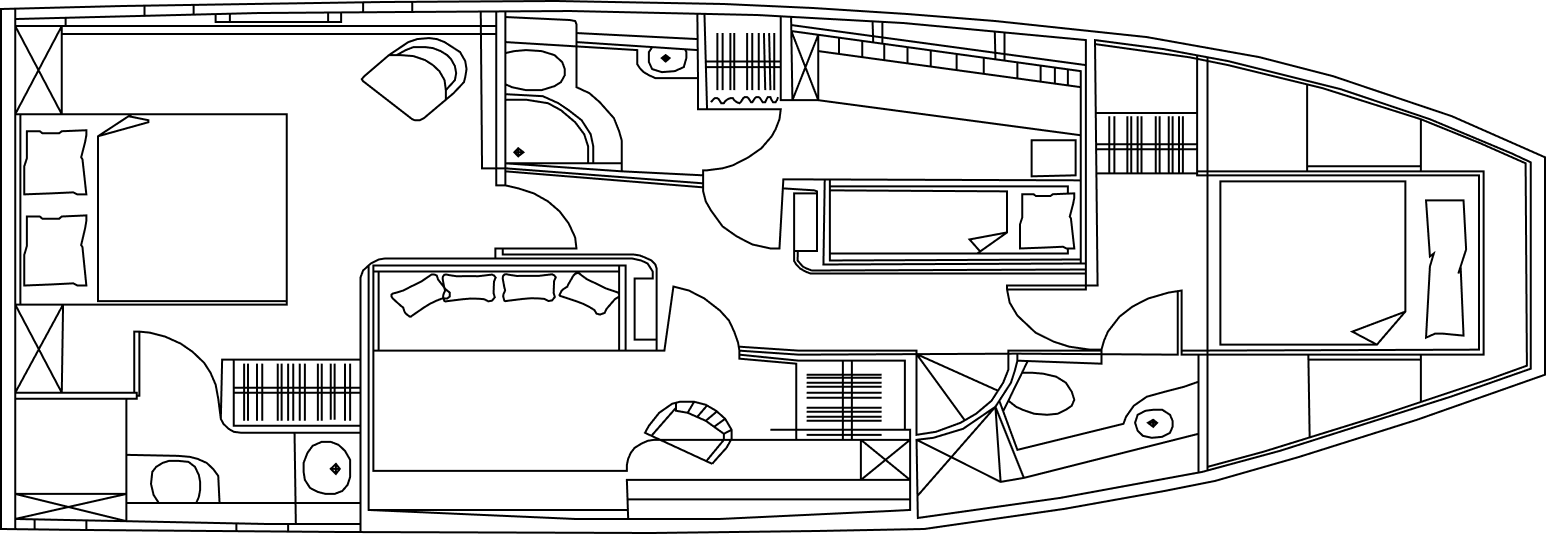
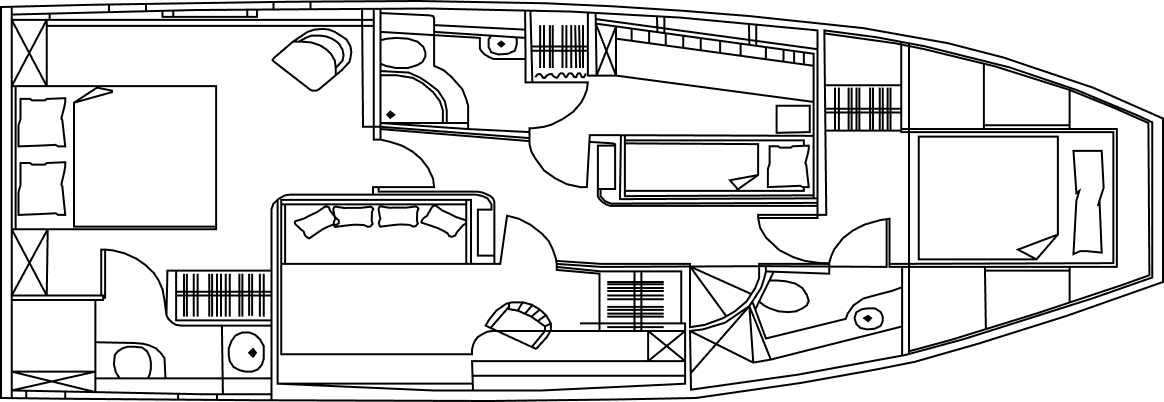
Александрия: new floor plans, "Планировки" row section, gallery page
- Replace all 3 floor plans with new resized drawings (side / main / lower),
  ordered side-first; cache-busted ?v=2
- noSpecs now renames the lower section to "Планировки", drops the empty
  spec table, and lays the plans in a row with labels below each drawing
- Add the 6 Александрия photos to the gallery page (e1–e5 interior, e6 exterior)

diff --git a/js/gallery.js b/js/gallery.js
@@ -63,6 +63,7 @@
     "volnyi-i1.jpg": "salon", "volnyi-i2.jpg": "captain", "volnyi-i3.jpg": "salon", "volnyi-i4.jpg": "bedroom", "volnyi-i5.jpg": "bedroom", "volnyi-i6.jpg": "salon",
     "yeti-i1.jpg": "salon", "yeti-i2.jpg": "captain", "yeti-i3.jpg": "salon", "yeti-i4.jpg": "bedroom", "yeti-i5.jpg": "bedroom", "yeti-i6.jpg": "bedroom",
     "aleksandriya-i1.jpg": "salon", "aleksandriya-i2.jpg": "salon", "aleksandriya-i3.jpg": "kitchen", "aleksandriya-i4.jpg": "bedroom", "aleksandriya-i5.jpg": "bedroom", "aleksandriya-i6.jpg": "bathroom",
+    "aleksandriya-e1.jpg": "salon", "aleksandriya-e2.jpg": "salon", "aleksandriya-e3.jpg": "salon", "aleksandriya-e4.jpg": "salon", "aleksandriya-e5.jpg": "salon",
     "laita-i1.jpg": "salon", "laita-i2.jpg": "captain", "laita-i3.jpg": "bedroom", "laita-i4.jpg": "bedroom",
     "frank-i1.jpg": "salon", "frank-i2.jpg": "kitchen", "frank-i3.jpg": "bedroom", "frank-i4.jpg": "bedroom", "frank-i5.jpg": "bathroom", "frank-i6.jpg": "captain"
   };
@@ -89,6 +90,7 @@
       "volnyi-i1.jpg", "volnyi-i2.jpg", "volnyi-i3.jpg", "volnyi-i4.jpg", "volnyi-i5.jpg", "volnyi-i6.jpg",
       "yeti-i1.jpg", "yeti-i2.jpg", "yeti-i3.jpg", "yeti-i4.jpg", "yeti-i5.jpg", "yeti-i6.jpg",
       "aleksandriya-i1.jpg", "aleksandriya-i2.jpg", "aleksandriya-i3.jpg", "aleksandriya-i4.jpg", "aleksandriya-i5.jpg", "aleksandriya-i6.jpg",
+      "aleksandriya-e1.jpg", "aleksandriya-e2.jpg", "aleksandriya-e3.jpg", "aleksandriya-e4.jpg", "aleksandriya-e5.jpg",
       "laita-i1.jpg", "laita-i2.jpg", "laita-i3.jpg", "laita-i4.jpg",
       "frank-i1.jpg", "frank-i2.jpg", "frank-i3.jpg", "frank-i4.jpg", "frank-i5.jpg", "frank-i6.jpg"
     ],
@@ -101,7 +103,7 @@
       "exp65lux.jpg", "exp65lux-2.jpg", "exp65lux-overview.jpg", "exp65lux-story.jpg",
       "exp65lux-e1.jpg", "exp65lux-e2.jpg", "exp65lux-e3.jpg", "exp65lux-e4.jpg", "exp65lux-e5.jpg", "exp65lux-e6.jpg",
       "sibirsky.jpg", "sibirsky-2.jpg", "sibirsky-overview.jpg", "sibirsky-story.jpg", "sibirsky-e1.jpg",
-      "aleksandriya.jpg", "aleksandriya-2.jpg", "aleksandriya-3.jpg", "aleksandriya-4.jpg",
+      "aleksandriya.jpg", "aleksandriya-2.jpg", "aleksandriya-3.jpg", "aleksandriya-4.jpg", "aleksandriya-e6.jpg",
       "mius.jpg", "mius-2.jpg", "mius-overview.jpg", "mius-story.jpg",
       "natali.jpg", "natali-2.jpg", "natali-overview.jpg", "natali-story.jpg",
       "kasatka.jpg", "kasatka-2.jpg", "kasatka-overview.jpg", "kasatka-story.jpg",

diff --git a/js/boat.js b/js/boat.js
@@ -377,11 +377,21 @@
     });
   }
 
-  /* ---- No numeric specs yet (only the build year): drop the hero
-     "Характеристики" block but keep the Год постройки. */
+  /* ---- No numeric specs (only the build year): drop the hero
+     "Характеристики" block, and turn the lower spec section into a
+     plans-only "Планировка" section. */
   if (boat && boat.noSpecs) {
-    const el = document.querySelector(".wf-specs");
-    if (el) el.remove();
+    const heroSpecs = document.querySelector(".wf-specs");
+    if (heroSpecs) heroSpecs.remove();
+    const sheet = document.querySelector(".wf-specsheet");
+    if (sheet) {
+      const title = sheet.querySelector(".wf-sectitle");
+      if (title) title.textContent = "Планировки";
+      const left = sheet.querySelector(".wf-specsheet__left");
+      if (left) left.remove();
+      const grid = sheet.querySelector(".wf-specsheet__grid");
+      if (grid) grid.style.gridTemplateColumns = "1fr";
+    }
   }
 
   /* ---- Hide the "Галерея" button in the На борту header (e.g. a boat with no
@@ -413,6 +423,30 @@
      overrides whichever fields it provides; anything it omits stays wireframe. */
   fillWireframe();
   if (boat && boat.content) fillContent(boat);
+
+  // noSpecs: the plans were (re)built by fillContent above, so lay them out
+  // in a row here with each deck label below its drawing (no overlap).
+  if (boat && boat.noSpecs) {
+    const plans = document.querySelector(".wf-specsheet .wf-plans");
+    if (plans) {
+      plans.style.flexDirection = "row";
+      plans.style.alignItems = "flex-start";
+      plans.style.width = "100%";
+      plans.querySelectorAll(".wf-plans__img").forEach((b) => {
+        const label = b.querySelector(".wf-plan__label");
+        const wrap = document.createElement("div");
+        wrap.style.cssText = "flex:1 1 0;min-width:0;display:flex;flex-direction:column;gap:.6rem";
+        b.parentNode.insertBefore(wrap, b);
+        wrap.appendChild(b);
+        b.style.width = "100%";
+        if (label) {
+          label.style.position = "static";
+          label.style.left = label.style.right = label.style.bottom = "auto";
+          wrap.appendChild(label);
+        }
+      });
+    }
+  }
 
   // tiny DOM helpers
   function setText(sel, txt) { const el = document.querySelector(sel); if (el && txt != null) el.textContent = txt; }

diff --git a/js/boats-data.js b/js/boats-data.js
@@ -393,12 +393,12 @@ const BOATS = [
       thumbs: ["aleksandriya-i1.jpg", "aleksandriya-i2.jpg", "aleksandriya-i3.jpg", "aleksandriya-i4.jpg", "aleksandriya-i5.jpg", "aleksandriya-i6.jpg"],
       captions: ["Салон", "Обеденная зона", "Камбуз", "Каюта", "Интерьер", "Санузел"],
       gallery: ["aleksandriya-2.jpg", "aleksandriya-i1.jpg", "aleksandriya.jpg", "aleksandriya-i2.jpg", "aleksandriya-i4.jpg", "aleksandriya-3.jpg", "aleksandriya-i3.jpg", "aleksandriya-4.jpg", "aleksandriya-i6.jpg", "aleksandriya-e1.jpg", "aleksandriya-e2.jpg", "aleksandriya-e3.jpg", "aleksandriya-e4.jpg", "aleksandriya-e5.jpg", "aleksandriya-e6.jpg"],
-      plans: ["aleksandriya-plan-main.png", "aleksandriya-plan-lower.png", "aleksandriya-plan-side.png"] },
+      plans: ["aleksandriya-plan-side.png?v=2", "aleksandriya-plan-main.png?v=2", "aleksandriya-plan-lower.png?v=2"] },
     content: { eyebrow: "Круизное моторное судно", desc: "Крупное водоизмещающее судно",
       decks: [
+        { name: "Боковой вид", items: [] },
         { name: "Главная палуба", items: ["Пост управления", "Салон", "Обеденная зона", "Камбуз"] },
-        { name: "Нижняя палуба", items: ["Каюты", "Санузлы", "Кают-компания"] },
-        { name: "Боковой вид", items: [] }
+        { name: "Нижняя палуба", items: ["Каюты", "Санузлы", "Кают-компания"] }
       ] } },
   { id: "mius", family: "korabli", name: "Миус", status: "sold", year: "2018", img: "mius.jpg?v=2", cardImg: "mius-card.jpg?v=2", tags: ["На заказ"],
     photos: { hero2: "mius-2.jpg", hero2Pos: "center 64%", overview: "mius-overview.jpg", construction: "mius-story.jpg?v=2",

diff --git a/boat.html b/boat.html
@@ -271,8 +271,8 @@
     </div>
   </footer>
 
-  <script src="js/boats-data.js?v=440"></script>
-  <script src="js/boat.js?v=70"></script>
+  <script src="js/boats-data.js?v=443"></script>
+  <script src="js/boat.js?v=74"></script>
   <script src="js/contact-modal.js?v=2"></script>
   <script src="js/booklet-modal.js?v=3"></script>
 </body>

diff --git a/gallery.html b/gallery.html
@@ -169,7 +169,7 @@
     </div>
   </footer>
 
-  <script src="js/gallery.js?v=23"></script>
+  <script src="js/gallery.js?v=24"></script>
   <script src="js/contact-modal.js?v=2"></script>
 
 </body>
